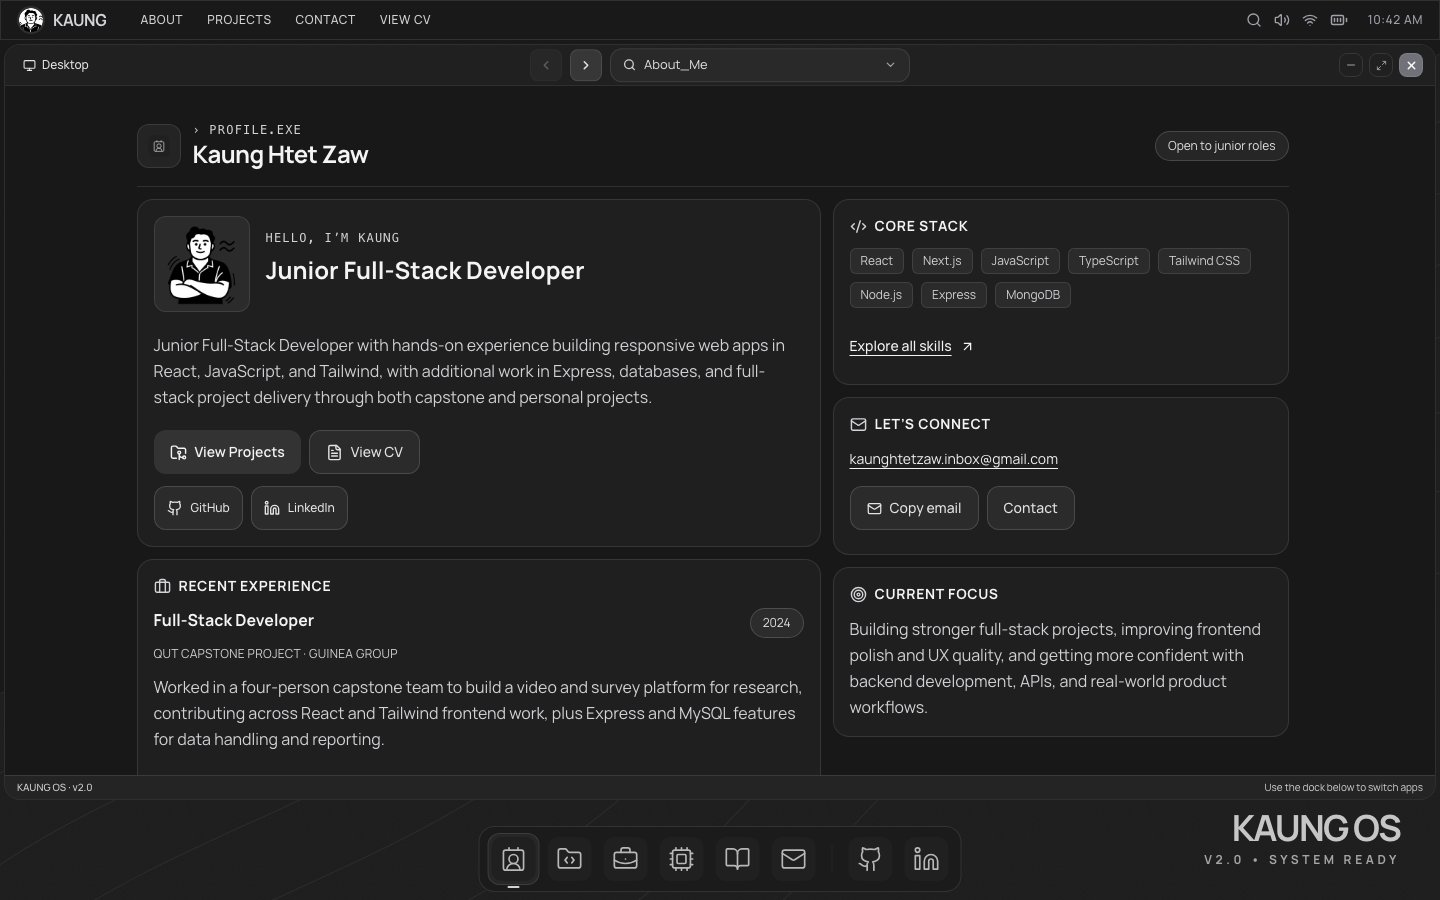
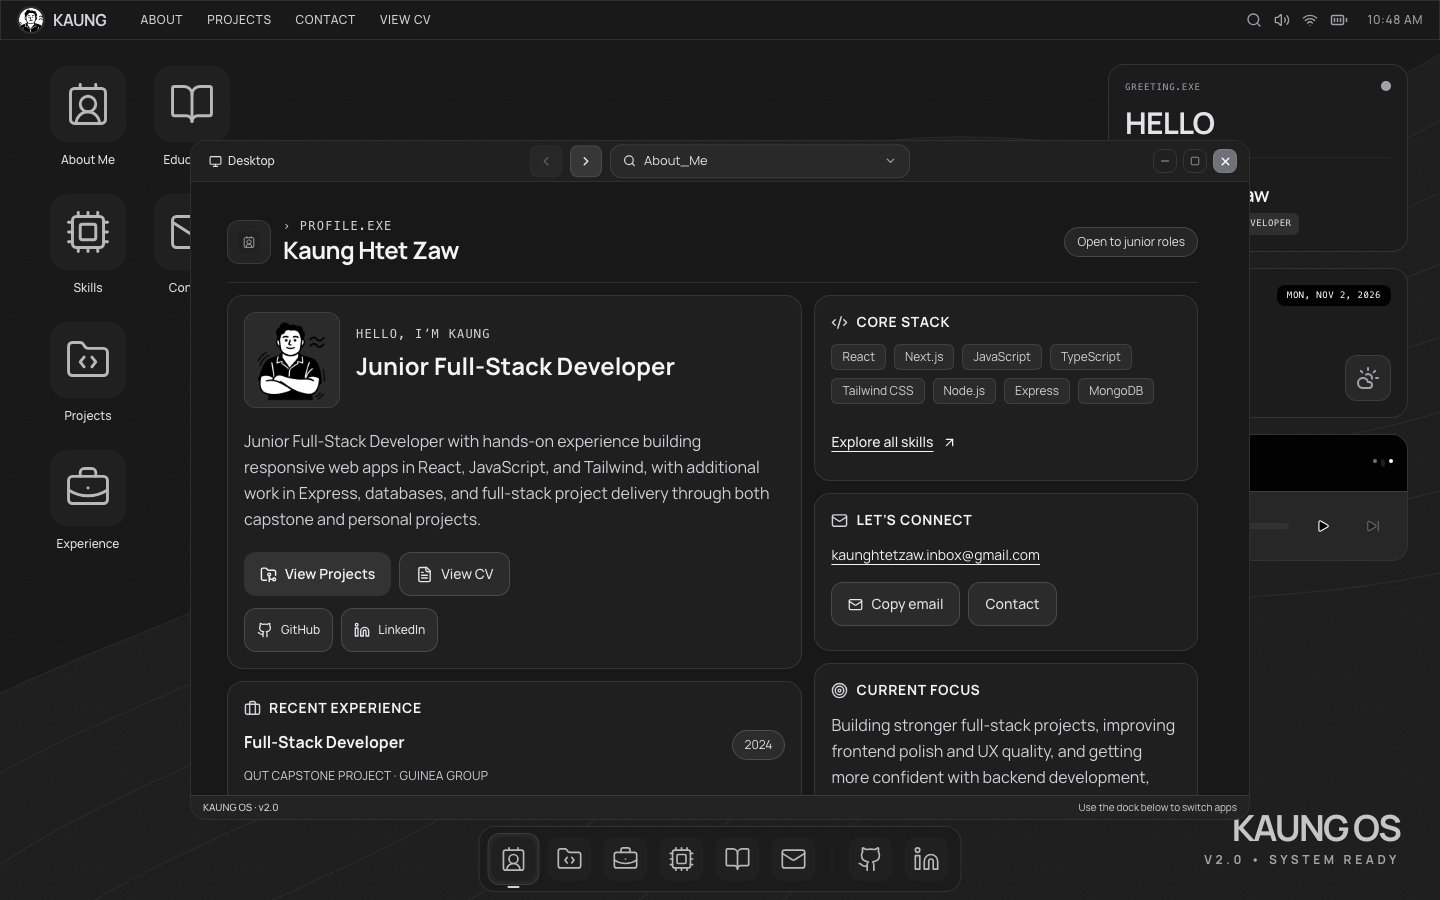
Open laptop apps in floating windows aligned closely above the dock

diff --git a/tests/e2e/portfolio.spec.js b/tests/e2e/portfolio.spec.js
@@ -225,12 +225,18 @@ test("contact form handles failed and successful submissions without sending rea
   expect(requests).toBe(2);
 });
 
-test("short laptop layouts keep actions reachable and restored windows stack columns", async ({ page }, testInfo) => {
+test("laptops open floating windows close to the dock and keep actions reachable", async ({ page }, testInfo) => {
   test.skip(testInfo.project.name !== "laptop", "Laptop layout regression coverage");
   await visit(page);
   for (const viewport of [{ width: 1440, height: 650 }, { width: 1366, height: 768 }, { width: 1280, height: 600 }]) {
     await page.setViewportSize(viewport);
     await openApp(page, "About_Me");
+    await expect(page.getByRole("button", { name: "Maximize window", exact: true })).toBeVisible();
+    const windowBox = await page.getByRole("region", { name: / window$/ }).boundingBox();
+    const dockBox = await page.getByRole("navigation", { name: "App dock", exact: true }).boundingBox();
+    expect(windowBox.width).toBeLessThan(viewport.width - 100);
+    expect(dockBox.y - windowBox.y - windowBox.height).toBeGreaterThanOrEqual(4);
+    expect(dockBox.y - windowBox.y - windowBox.height).toBeLessThanOrEqual(8);
     await expect(page.getByRole("button", { name: "View Projects", exact: true })).toBeInViewport({ ratio: 1 });
     await expect(page.locator(".app-page").getByRole("link", { name: "View CV", exact: true })).toBeInViewport({ ratio: 1 });
     expect(await page.locator(".app-page").evaluate((e) => e.getBoundingClientRect().width)).toBeLessThanOrEqual(1160);
@@ -243,12 +249,13 @@ test("short laptop layouts keep actions reachable and restored windows stack col
     await submit.scrollIntoViewIfNeeded();
     await expect(submit).toBeInViewport({ ratio: 1 });
   }
+  await page.getByRole("button", { name: "Maximize window", exact: true }).click();
   await page.getByRole("button", { name: "Restore window", exact: true }).click();
   for (const app of ["About_Me", "Projects", "Experience", "Skills", "Education", "Contact"]) {
     await openApp(page, app);
     expect(await page.locator(".os-content").evaluate((e) => e.scrollWidth <= e.clientWidth + 1)).toBe(true);
     const grid = page.locator('.app-split, .app-grid-two, .app-experience-grid').first();
-    expect(await grid.evaluate((e) => getComputedStyle(e).gridTemplateColumns.split(' ').length)).toBe(1);
+    expect(await grid.evaluate((e) => getComputedStyle(e).gridTemplateColumns.split(' ').length)).toBe(2);
   }
 });
 
@@ -300,14 +307,14 @@ test("wide monitors open a centered window with working maximize and restore", a
     await page.setViewportSize(viewport);
     await expect(page.getByRole("button", { name: "Maximize window", exact: true })).toBeVisible();
     await expect.poll(async () => Math.round((await appWindow.boundingBox()).width)).toBe(1400);
-    await expect.poll(async () => Math.round((await appWindow.boundingBox()).height)).toBe(Math.min(900, viewport.height - 172));
+    await expect.poll(async () => Math.round((await appWindow.boundingBox()).height)).toBe(Math.min(900, viewport.height - 132));
     await expect.poll(async () => {
       const box = await appWindow.boundingBox();
       return Math.abs(box.x - (viewport.width - box.width) / 2);
     }).toBeLessThan(2);
     const box = await appWindow.boundingBox();
     expect(box.y).toBeGreaterThanOrEqual(44);
-    expect(box.y + box.height).toBeLessThanOrEqual(viewport.height - 100);
+    expect(box.y + box.height).toBeLessThanOrEqual(viewport.height - 80);
   }
   await page.getByRole("button", { name: "Maximize window", exact: true }).click();
   await expect(page.getByRole("button", { name: "Restore window", exact: true })).toBeVisible();
@@ -320,8 +327,8 @@ test("wide monitors open a centered window with working maximize and restore", a
   await page.getByRole("button", { name: "Close window", exact: true }).click();
   await page.getByRole("navigation", { name: "App dock" }).getByRole("button", { name: "Open About_Me window", exact: true }).click();
   await page.setViewportSize({ width: 1440, height: 900 });
-  await expect(page.getByRole("button", { name: "Restore window", exact: true })).toBeVisible();
-  expect((await appWindow.boundingBox()).width).toBeGreaterThan(1400);
+  await expect(page.getByRole("button", { name: "Maximize window", exact: true })).toBeVisible();
+  await expect.poll(async () => Math.round((await appWindow.boundingBox()).width)).toBe(1060);
   await page.setViewportSize({ width: 1920, height: 1080 });
   await expect(page.getByRole("button", { name: "Maximize window", exact: true })).toBeVisible();
   await expect.poll(async () => Math.round((await appWindow.boundingBox()).width)).toBe(1400);

diff --git a/src/components/os/Window.jsx b/src/components/os/Window.jsx
@@ -40,12 +40,12 @@ export default function Window({
   const nodeRef = useRef(null);
   const pickerRef = useRef(null);
   const searchInputRef = useRef(null);
-  const [windowMode, setWindowMode] = useState("auto");
+  const [windowMode, setWindowMode] = useState("restored");
   const [position, setPosition] = useState(() => {
     const wide = window.innerWidth >= 1600;
-    const width = Math.min(wide ? 1400 : 860, window.innerWidth - 32);
-    const height = Math.min(wide ? 900 : 680, window.innerHeight - 172);
-    return { x: (window.innerWidth - width) / 2, y: Math.max(44, 44 + (window.innerHeight - 144 - height) / 2) };
+    const width = Math.min(wide ? 1400 : 1060, window.innerWidth - 64);
+    const height = Math.min(wide ? 900 : 680, window.innerHeight - 132);
+    return { x: (window.innerWidth - width) / 2, y: Math.max(44, window.innerHeight - 80 - height) };
   });
   const [isPickerOpen, setIsPickerOpen] = useState(false);
   const [searchQuery, setSearchQuery] = useState("");
@@ -78,10 +78,10 @@ export default function Window({
     });
 
   const isWideScreen = viewportWidth >= 1600;
-  const isMaximized = isMobile || isTablet || windowMode === "maximized" || (windowMode === "auto" && !isWideScreen);
-  const restoredWidth = Math.min(isWideScreen ? 1400 : 860, viewportWidth - 32);
+  const isMaximized = isMobile || isTablet || windowMode === "maximized";
+  const restoredWidth = Math.min(isWideScreen ? 1400 : 1060, viewportWidth - 64);
   const [viewportHeight, setViewportHeight] = useState(() => window.innerHeight);
-  const restoredHeight = Math.min(isWideScreen ? 900 : 680, viewportHeight - 172);
+  const restoredHeight = Math.min(isWideScreen ? 900 : 680, viewportHeight - 132);
 
   useEffect(() => {
     const handleResize = () => {
@@ -100,7 +100,7 @@ export default function Window({
 
     if (!isMobile) {
       const centerX = (viewportWidth - restoredWidth) / 2;
-      const centerY = Math.max(44, 44 + (viewportHeight - 144 - restoredHeight) / 2);
+      const centerY = Math.max(44, viewportHeight - 80 - restoredHeight);
       setPosition({ x: Math.max(0, centerX), y: Math.max(0, centerY) });
     }
   }, [isMobile, restoredWidth, restoredHeight, viewportWidth, viewportHeight]);
@@ -148,7 +148,7 @@ export default function Window({
     top: 44,
     left: 0,
     right: Math.max(0, viewportWidth - restoredWidth),
-    bottom: Math.max(44, viewportHeight - restoredHeight - 100),
+    bottom: Math.max(44, viewportHeight - restoredHeight - 80),
   };
 
   const toggleMaximize = () => {
@@ -157,7 +157,7 @@ export default function Window({
 
     if (isMaximized) {
       const centerX = (viewportWidth - restoredWidth) / 2;
-      const centerY = Math.max(44, 44 + (viewportHeight - 144 - restoredHeight) / 2);
+      const centerY = Math.max(44, viewportHeight - 80 - restoredHeight);
       setPosition({ x: Math.max(0, centerX), y: Math.max(0, centerY) });
     } else {
       setPosition({ x: 0, y: 0 });
@@ -362,7 +362,7 @@ export default function Window({
       positionClass = "fixed top-[calc(var(--os-safe-top)+40px)] left-3 right-3 bottom-[calc(var(--os-safe-bottom)+100px)] z-50 rounded-[24px] !transform-none border border-white/20 bg-[#181818] ";
     } else {
       positionClass =
-        "fixed top-11 left-3 right-3 xl:left-1 xl:right-1 bottom-[100px] z-50 rounded-2xl !transform-none border border-white/10 bg-[#181818] ";
+        "fixed top-11 left-3 right-3 xl:left-1 xl:right-1 bottom-[80px] z-50 rounded-2xl !transform-none border border-white/10 bg-[#181818] ";
     }
   } else {
     positionClass =
